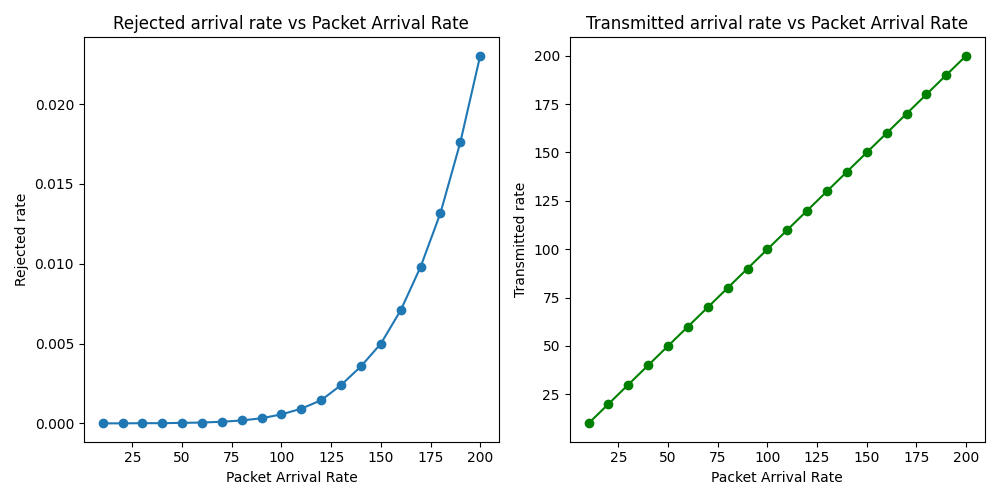
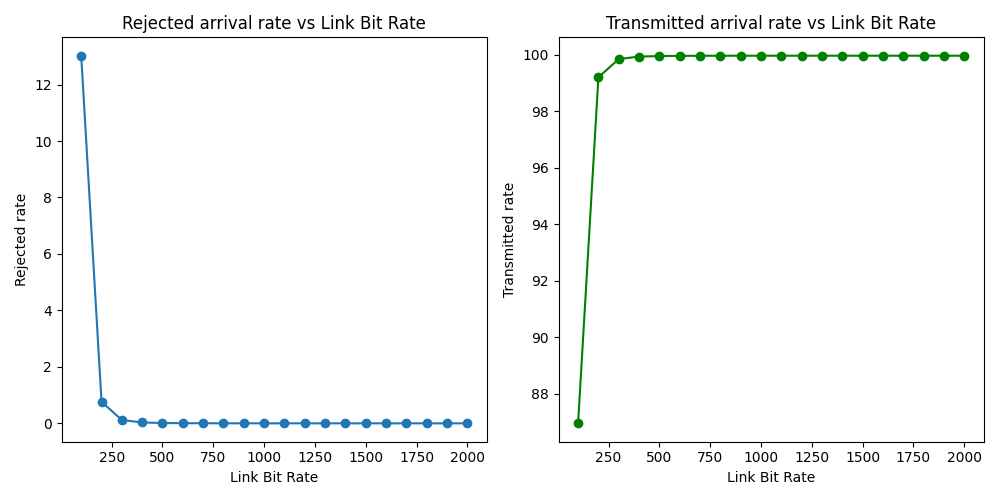
fixing q1b

diff --git a/q1b.py b/q1b.py
@@ -8,7 +8,7 @@ import os
 # Configuration
 # -----------------------------
 RERUN = True                       # True: sweep rates, compile/run; False: just plot from CSV
-ARRIVAL_RATES = range(10, 201, 10)  # From 10 to 200 inclusive
+LINK_BIT_RATES = range(20, 401, 20)  # From 100 to 2000 inclusive
 CSV_FILE = "q1b.csv"
 EXECUTABLE = "./run"
 SOURCE_WILDCARD = "*.c"
@@ -19,11 +19,11 @@ REJECTED_PATTERN = re.compile(r"Rejected arrival count\s*=\s*([\d\.]+)")
 TRANSMITTED_PATTERN = re.compile(r"Transmitted arrival count\s*=\s*([\d\.]+)")
 
 # -----------------------------
-# Function to compile program with PACKET_ARRIVAL_RATE
+# Function to compile program with LINK_BIT_RATE
 # -----------------------------
-def compile_program(arrival_rate):
-    cmd = f"gcc -O2 -Wall -DPACKET_ARRIVAL_RATE={arrival_rate} {SOURCE_WILDCARD} -o {EXECUTABLE} -lm"
-    print(f"Compiling with PACKET_ARRIVAL_RATE={arrival_rate}...")
+def compile_program(link_bit_rate):
+    cmd = f"gcc -O2 -Wall -DLINK_BIT_RATE={link_bit_rate} {SOURCE_WILDCARD} -o {EXECUTABLE} -lm"
+    print(f"Compiling with LINK_BIT_RATE={link_bit_rate}...")
     subprocess.run(cmd, shell=True, check=True)
 
 # -----------------------------
@@ -53,7 +53,7 @@ if RERUN:
     rejected_list = []
     transmitted_list = []
 
-    for rate in ARRIVAL_RATES:
+    for rate in LINK_BIT_RATES:
         compile_program(rate)
         rej, trans = run_and_parse()
         if rej is None or trans is None:
@@ -64,13 +64,13 @@ if RERUN:
     # Write CSV
     with open(CSV_FILE, "w", newline="") as f:
         writer = csv.writer(f)
-        writer.writerow(["ArrivalRate", "RejectedRate", "TransmittedRate"])
-        for rate, rej, trans in zip(ARRIVAL_RATES, rejected_list, transmitted_list):
+        writer.writerow(["LinkBitRate", "RejectedRate", "TransmittedRate"])
+        for rate, rej, trans in zip(LINK_BIT_RATES, rejected_list, transmitted_list):
             writer.writerow([rate, rej, trans])
 
 else:
     # just read csv
-    ARRIVAL_RATES = []
+    LINK_BIT_RATES = []
     rejected_list = []
     transmitted_list = []
 
@@ -80,7 +80,7 @@ else:
     with open(CSV_FILE, "r") as f:
         reader = csv.DictReader(f)
         for row in reader:
-            ARRIVAL_RATES.append(int(row["ArrivalRate"]))
+            LINK_BIT_RATES.append(int(row["LinkBitRate"]))
             rejected_list.append(float(row["RejectedRate"]))
             transmitted_list.append(float(row["TransmittedRate"]))
 
@@ -90,15 +90,15 @@ else:
 plt.figure(figsize=(10,5))
 
 plt.subplot(1,2,1)
-plt.plot(ARRIVAL_RATES, rejected_list, marker='o')
-plt.title("Rejected arrival rate vs Packet Arrival Rate")
-plt.xlabel("Packet Arrival Rate")
+plt.plot(LINK_BIT_RATES, rejected_list, marker='o')
+plt.title("Rejected arrival rate vs Link Bit Rate")
+plt.xlabel("Link Bit Rate")
 plt.ylabel("Rejected rate")
 
 plt.subplot(1,2,2)
-plt.plot(ARRIVAL_RATES, transmitted_list, marker='o', color='green')
-plt.title("Transmitted arrival rate vs Packet Arrival Rate")
-plt.xlabel("Packet Arrival Rate")
+plt.plot(LINK_BIT_RATES, transmitted_list, marker='o', color='green')
+plt.title("Transmitted arrival rate vs Link Bit Rate")
+plt.xlabel("Link Bit Rate")
 plt.ylabel("Transmitted rate")
 
 plt.tight_layout()

diff --git a/simparameters.h b/simparameters.h
@@ -28,12 +28,12 @@
 
 /******************************************************************************/
 
-#ifndef PACKET_ARRIVAL_RATE
 #define PACKET_ARRIVAL_RATE 100 /* packets per second */
-#endif 
 
 // #define PACKET_LENGTH 1e3 /* bits */
-// #define LINK_BIT_RATE 1e6 /* bits per second */
+#ifndef LINK_BIT_RATE
+#define LINK_BIT_RATE 1000 /* packets per second */
+#endif
 // #define RUNLENGTH 10e6 /* packets */
 #define RUNLENGTH_TIME 100000
 
@@ -44,7 +44,7 @@
 /* Comma separated list of random seeds to run. */
 #define RANDOM_SEED_LIST 333333, 4444444, 55555555, 400383048
 
-#define PACKET_XMT_TIME 0.001//((double) PACKET_LENGTH/LINK_BIT_RATE)
+#define PACKET_XMT_TIME ((double) 1/LINK_BIT_RATE)
 #define BLIPRATE (RUNLENGTH_TIME/1000)
 
 /******************************************************************************/
